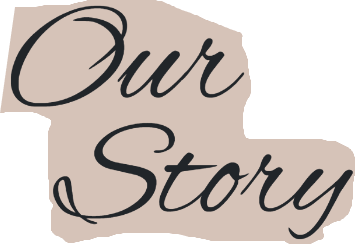
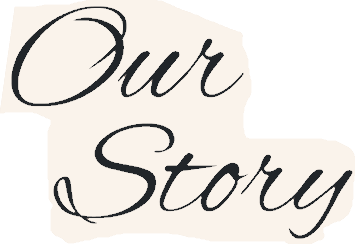
styling updates

diff --git a/index.html b/index.html
@@ -83,6 +83,8 @@
 
           <div style="background-color: var(--lunar-green);"><small>&nbsp;</small></div>
 
+          <div class="background-container"></div>
+
           <!-------------------------------- Background Image -------------------------------------->
           <div class="banner">
             <!-- Your banner image -->

diff --git a/style.css b/style.css
@@ -22,7 +22,7 @@ body {
         --dark-olive: #303C2A;
         --ash-gray: #C1CCB7;
         --lunar-green: #2E3D34;
-        --beige: #d6c3b8;
+        --beige: #FAF3EB;
     }
 
     /* ------------------------------------- Navigation Bar ---------------------------------- */
